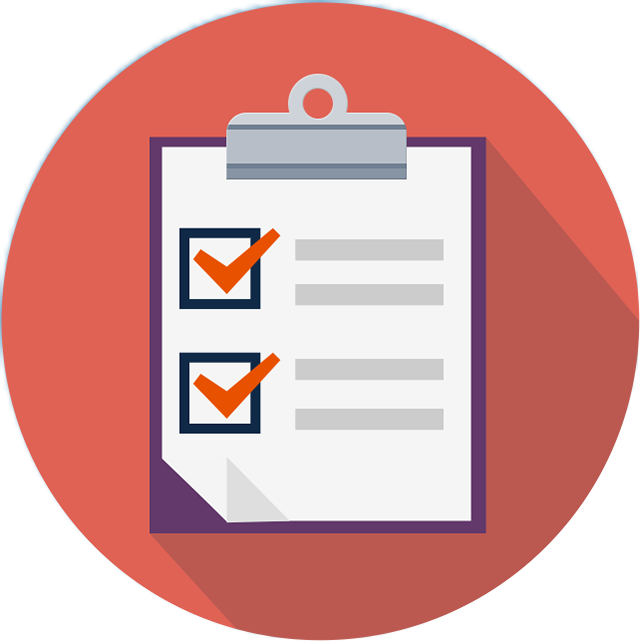
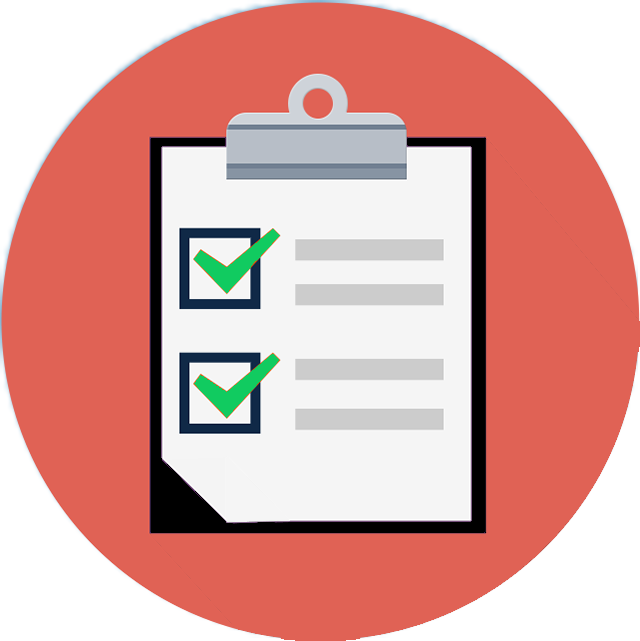
New images complete

Changed region(s): [[0.2188, 0.2184, 1.0, 1.0], [0.3125, 0.5304, 0.4375, 0.6552], [0.3125, 0.3432, 0.4375, 0.468]]

diff --git a/FinancialInclusionApplication/www/templates/homepage.tile.calculator.html b/FinancialInclusionApplication/www/templates/homepage.tile.calculator.html
@@ -1,5 +1,5 @@
 <a href="#/calculator" class="homePageFullWidth">
     <div class="homePageTiles">  
-        <img src="img/calculator.png" alt="Calculators" style="width:15vh;height:15vh;">
+        <img src="img/newCalculator.png" alt="Calculators" style="width:15vh;height:15vh;">
     </div>
 </a>
